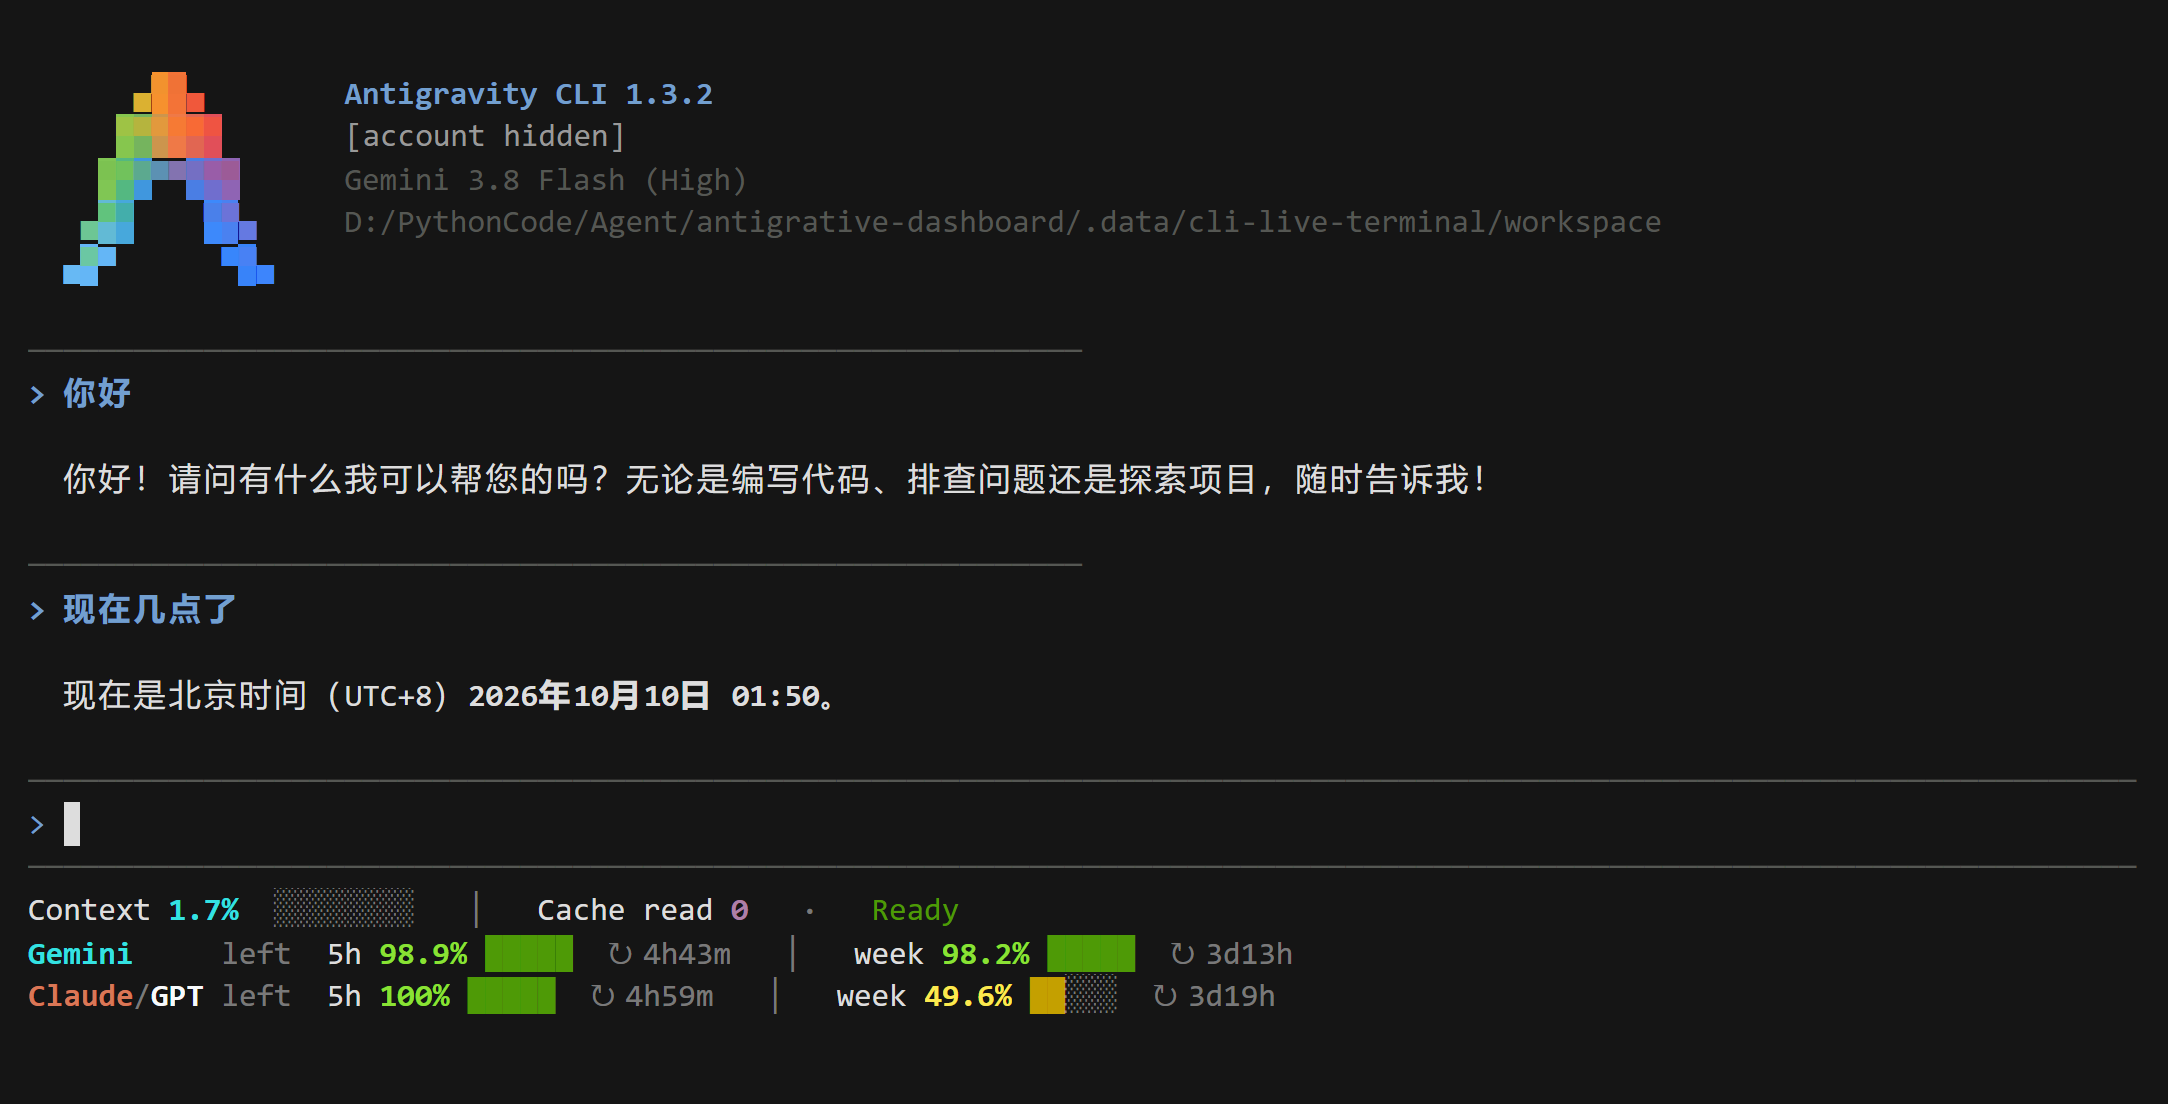
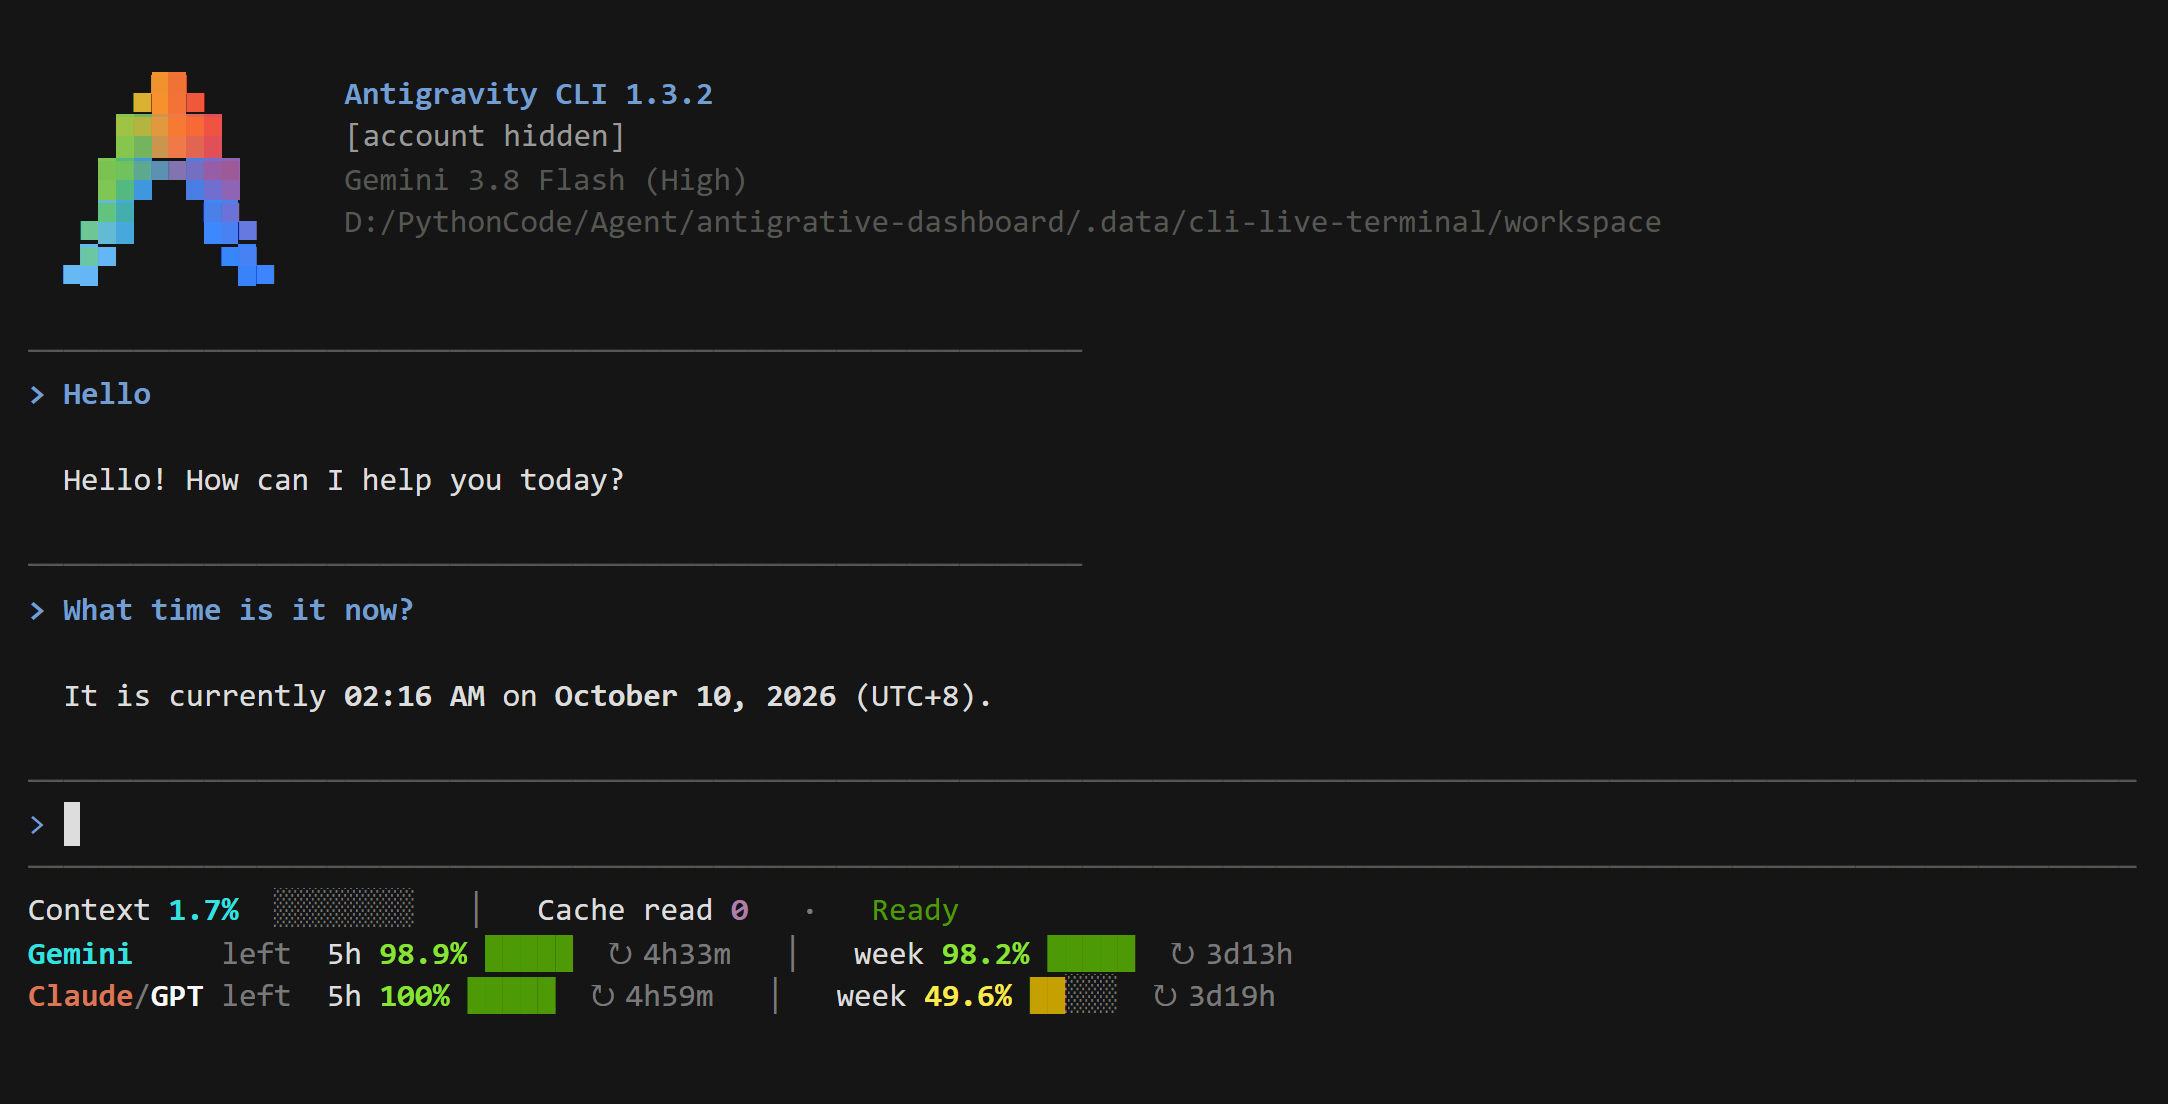
Show real English and Chinese CLI conversations in matching previews

diff --git a/tools/publish-release.py b/tools/publish-release.py
@@ -21,7 +21,7 @@ def checked_assets(root, tag):
         manifest = json.loads(archive.read(prefix + 'plugin.json'))
         if manifest['version'] != version:
             raise ValueError('Packaged version differs')
-        for required in ['install.sh', 'uninstall.sh', 'install.ps1', 'compat/runtime-ui.mjs', 'compat/theme.cjs', 'compat/host-theme.mjs', 'compat/preferences.mjs', 'compat/sidecar-owner.mjs', 'sidecars/panel/context.mjs', 'cli/statusline.mjs', 'cli/metrics.mjs', 'cli/render.mjs', 'cli/lifecycle.py', 'docs/CLI.md', 'docs/assets/cli-conversation.png']:
+        for required in ['install.sh', 'uninstall.sh', 'install.ps1', 'compat/runtime-ui.mjs', 'compat/theme.cjs', 'compat/host-theme.mjs', 'compat/preferences.mjs', 'compat/sidecar-owner.mjs', 'sidecars/panel/context.mjs', 'cli/statusline.mjs', 'cli/metrics.mjs', 'cli/render.mjs', 'cli/lifecycle.py', 'docs/CLI.md', 'docs/assets/cli-conversation.png', 'docs/assets/cli-conversation-zh.png']:
             archive.getinfo(prefix + required)
     return [bundle, checksum]
 

diff --git a/docs/CLI.md b/docs/CLI.md
@@ -71,7 +71,9 @@ Automated checks cover official example values, zero/missing values, compaction/
 
 ## 简体中文
 
-从 [GitHub Releases](https://github.com/YOU-SHOULD-KNOW-ME/antigrative-dashboard/releases) 下载 v0.6.0 或更新安装包，解压后在项目目录运行以下命令。上图为 Windows CLI 1.3.2 登录后的真实两轮对话，邮箱已遮挡；上下文从 0% 变为 1.7%，缓存读取为真实零值，Claude/GPT 周额度 49.6% 显示黄色。Linux/macOS 尚未完成登录后的实机交互验收，非零缓存的真实宿主场景也尚未验证。
+![真实中文 CLI 两轮对话及状态栏](assets/cli-conversation-zh.png)
+
+从 [GitHub Releases](https://github.com/YOU-SHOULD-KNOW-ME/antigrative-dashboard/releases) 下载 v0.6.0 或更新安装包，解压后在项目目录运行以下命令。上图为 Windows CLI 1.3.2 登录后的真实中文两轮对话，邮箱已遮挡；上下文从 0% 变为 1.7%，缓存读取为真实零值，Claude/GPT 周额度 49.6% 显示黄色。Linux/macOS 尚未完成登录后的实机交互验收，非零缓存的真实宿主场景也尚未验证。
 
 通过 [Antigravity CLI 官方状态栏接口](https://antigravity.google/docs/cli/statusline/) 接入，要求 **Node.js 20+、Python 3.10+** 和支持该接口的 `agy`。Windows/Linux/macOS 共用实现；Linux/macOS 把以下 `python` 换为 `python3`。
 

diff --git a/README.zh-CN.md b/README.zh-CN.md
@@ -52,7 +52,7 @@
 
 **v0.6.0 新增**独立的 CLI 官方状态栏适配：上下文占用、缓存读取 Token、状态、分组额度及重置倒计时，支持中英文和终端宽度适配。额度数字和进度条按剩余量显示：**≥70% 绿色、≥30% 且 <70% 黄色、<30% 红色**。预览：`node cli/statusline.mjs --preview --language zh-CN`；安装：`python manage.py install-cli`（Linux/macOS 用 `python3`）。需要 Node.js 20+ 和支持官方接口的 CLI。官方输入没有流式耗时，暂不显示 tok/s。详见 [CLI 使用及撤回](docs/CLI.md)。
 
-![真实 Antigravity CLI 两轮对话及状态栏](docs/assets/cli-conversation.png)
+![真实 Antigravity CLI 两轮对话及状态栏](docs/assets/cli-conversation-zh.png)
 
 <sub>Windows Antigravity CLI 1.3.2 真实两轮对话，账号邮箱已遮挡。Linux/macOS 登录后的交互实机验收尚未完成。</sub>
 
